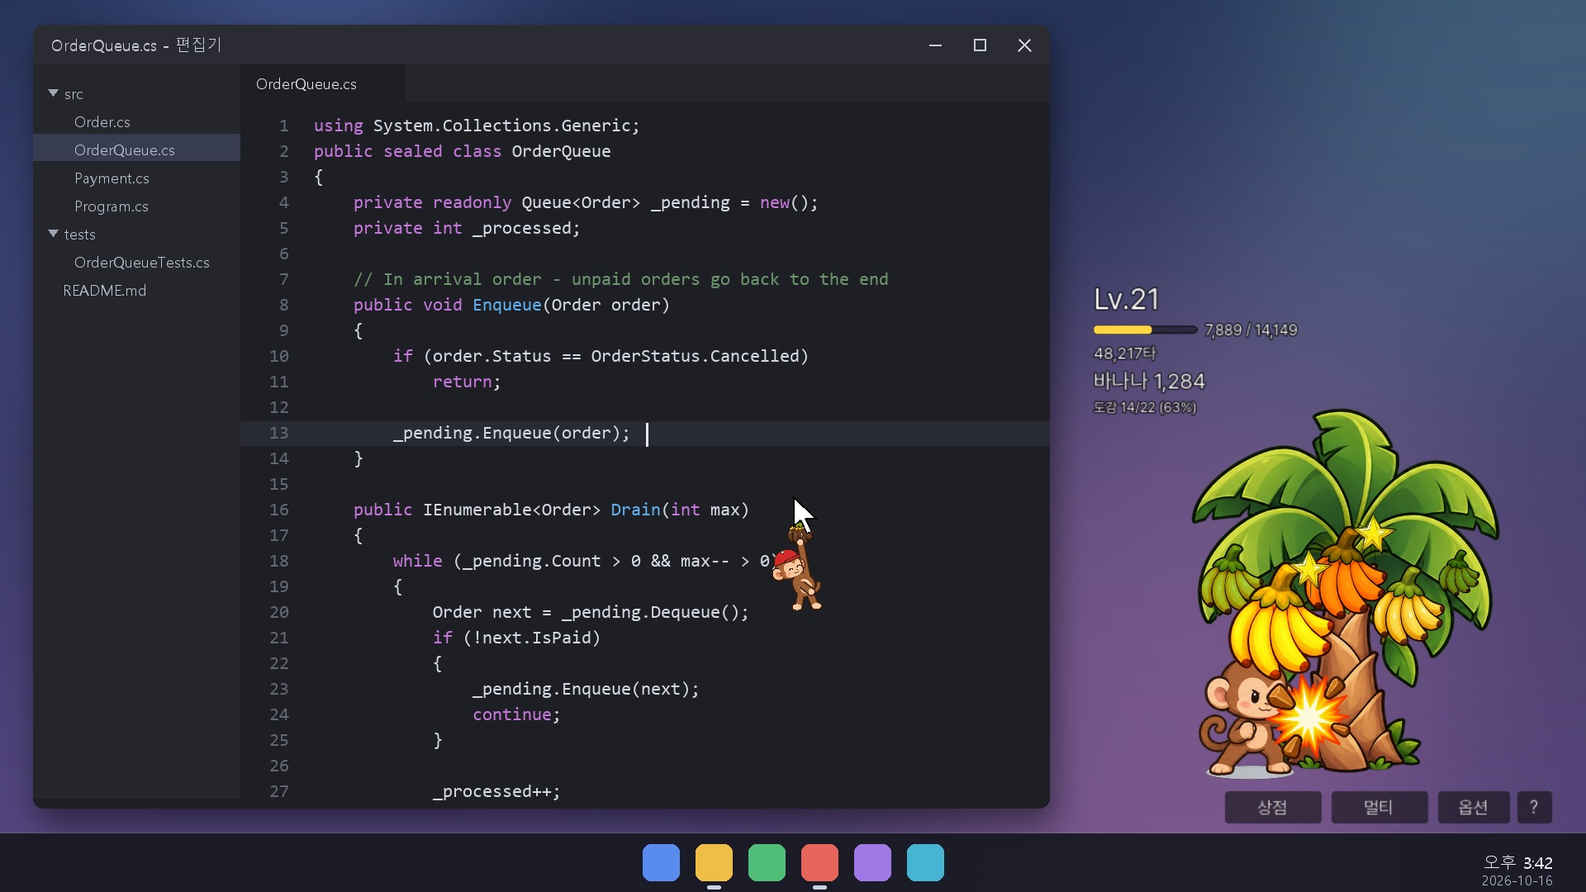
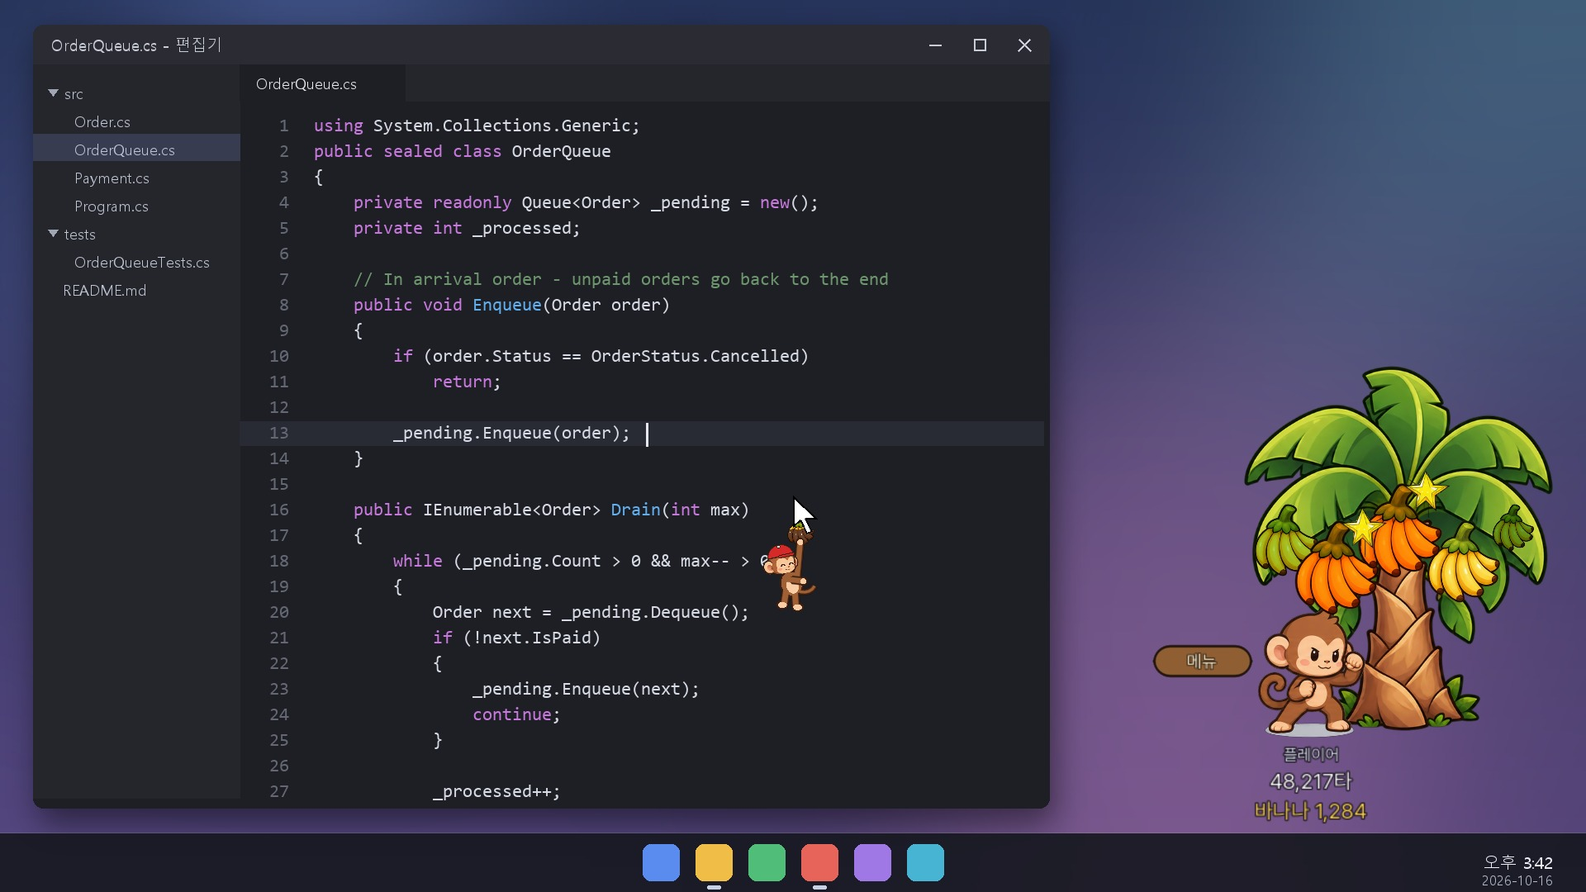
docs(C1): 스토어 소재 새 화면으로 - 스크린샷·설명란 그림 다시 합성, 설명문 고침, LoRA 확인, AI 공개 문구 초안
- make-store-screenshots.py: 메뉴 칸만큼 넓은 원판에 맞춰 뒤 창 폭(work_right)·친구 창 자리·
  설명란/GIF 자르는 자리를 새로 잡고, 편집기 코드는 창 안으로 잘라 붙이고 문서 글은 줄바꿈한다
- 설명문(한/영): 레벨 문장 삭제, 클릭 통과 문장을 보이는 모양 기준으로, 친구 창 캡션에서 레벨 삭제
- StickersRedmond LoRA = CreativeML OpenRAIL-M (B8 §4), 스팀 AI 생성 콘텐츠 공개 문구 초안 (C1 §8)

Changed region(s): [[0.7188, 0.3972, 1.0, 0.9472], [0.6875, 0.3056, 0.8125, 0.4889], [0.4688, 0.6111, 0.5312, 0.7028]]

diff --git a/tools/make-store-screenshots.py b/tools/make-store-screenshots.py
@@ -172,6 +172,9 @@ def code_editor(bg, box):
     d.rectangle((x0 + 250, y0, x0 + 450, y0 + 44), fill=(30, 31, 36, 255))
     d.text((x0 + 270, y0 + 22), "OrderQueue.cs", font=tf, fill=(230, 232, 240, 255), anchor="lm")
 
+    # 코드는 따로 그려 편집기 안쪽으로 잘라 붙인다 - 게임 화면(메뉴 칸)이 넓은 장면은 편집기가 좁아 줄이 창 밖으로 샌다
+    code = Image.new("RGBA", (W, H), (0, 0, 0, 0))
+    d = ImageDraw.Draw(code)
     mf = font(MONO, 22)
     palette = {"k": (198, 120, 221), "t": (214, 218, 228), "f": (97, 175, 239), "c": (110, 150, 110)}
     line, x = 0, 0
@@ -194,14 +197,15 @@ def code_editor(bg, box):
     # 입력 커서
     d.rectangle((x0 + 340 + 402, top + cursor_line * lh - 2, x0 + 340 + 404, top + cursor_line * lh + 26),
                 fill=(230, 230, 240, 255))
+    clip = (x0 + 250, y0 + 44, x1 - 6, y1)
+    bg.alpha_composite(code.crop(clip), clip[:2])
 
 
 DOC = [
     ("h", "3분기 제품 회의록"),
     ("m", "2026년 10월 16일 · 참석 5명"),
     ("s", "1. 지난 분기 돌아보기"),
-    ("p", "신규 가입은 목표를 넘겼지만 첫 주 이탈이 예상보다 컸다. 온보딩 화면을 세 장으로 줄인 뒤"),
-    ("p", "이탈이 조금 줄었고, 다음 분기에도 같은 지표로 본다."),
+    ("p", "신규 가입은 목표를 넘겼지만 첫 주 이탈이 예상보다 컸다. 온보딩 화면을 세 장으로 줄인 뒤 이탈이 조금 줄었고, 다음 분기에도 같은 지표로 본다."),
     ("s", "2. 이번 분기 목표"),
     ("p", "· 첫 주 유지율 5%p 올리기"),
     ("p", "· 설정 화면 정리 — 자주 쓰는 항목을 위로"),
@@ -219,17 +223,38 @@ def document(bg, box):
     px0, px1 = x0 + 90, x1 - 90
     d.rectangle((px0, y0 + 30, px1, y1 - 12), fill=(255, 255, 255, 255))
     y = y0 + 90
+    # 글은 따로 그려 종이 안으로 잘라 붙인다 - 문서 창이 좁은 장면에서 줄이 종이 밖으로 샌다
+    layer = Image.new("RGBA", (W, H), (0, 0, 0, 0))
+    d = ImageDraw.Draw(layer)
     styles = {"h": (UI_BOLD, 38, (30, 32, 40), 64), "m": (UI, 20, (120, 124, 134), 56),
               "s": (UI_BOLD, 26, (40, 44, 56), 48), "p": (UI, 21, (60, 64, 74), 38)}
     for kind, text in DOC:
         path, size, color, step = styles[kind]
         if kind == "s":
             y += 14
-        d.text((px0 + 70, y), text, font=font(path, size), fill=color + (255,))
-        y += step
+        f = font(path, size)
+        for row in wrap(d, text, f, px1 - 70 - (px0 + 70)):
+            d.text((px0 + 70, y), row, font=f, fill=color + (255,))
+            y += step
         if y > y1 - 40:
             break
+    clip = (px0, y0 + 30, px1, y1 - 12)
+    bg.alpha_composite(layer.crop(clip), clip[:2])
     return (px0 + 70, y)
+
+
+def wrap(d, text, f, width):
+    """띄어쓰기 단위로 줄을 나눈다 - 문서 창이 좁은 장면(메뉴 칸이 옆에 뜬 장면)에서 종이 밖으로 새지 않게."""
+    rows, row = [], ""
+    for word in text.split(" "):
+        candidate = f"{row} {word}" if row else word
+        if row and d.textlength(candidate, font=f) > width:
+            rows.append(row)
+            row = word
+        else:
+            row = candidate
+    rows.append(row)
+    return rows
 
 
 # ---------- 커서 ----------
@@ -279,6 +304,19 @@ def place_magnifier(bg, src, mask, at, line_to, src_r=60):
 
 # ---------- 장면 ----------
 
+def game_left(raw, shot, right=40):
+    """메인 창에서 그려진 부분의 왼쪽 끝이 바탕화면 어디에 올지. 메뉴가 열린 장면은 메뉴 칸(창 왼쪽)까지 넓다
+    (2026-09-28) - 뒤에 놓는 편집기·문서 창이 그 앞에서 끝나게 이 값으로 폭을 정한다."""
+    im = raw.img(shot)
+    box = content_box(im)
+    return W - right - box[2] + box[0]
+
+
+def work_right(raw, shot, fallback=1270):
+    """뒤의 작업 창 오른쪽 끝 - 게임 화면과 30px 띄운다. 게임이 좁으면 원래 폭."""
+    return min(fallback, game_left(raw, shot) - 30)
+
+
 def game_at(bg, raw, shot, right=40, bottom_gap=10):
     """메인 창을 오른쪽 아래, 그려진 부분의 바닥이 작업 표시줄 바로 위에 오게 놓는다. 창 좌상단을 돌려준다."""
     im = raw.img(shot)
@@ -315,7 +353,7 @@ def shot_harvest(raw):
 
 def shot_cursor(raw):
     bg = wallpaper(0)
-    code_editor(bg, (40, 30, 1270, H - TASKBAR - 30))
+    code_editor(bg, (40, 30, work_right(raw, "shop_tab0"), H - TASKBAR - 30))
     game_at(bg, raw, "shop_tab0")
     tip = (820, 300)
     cursor(bg, raw, "shop_tab0", tip)
@@ -329,7 +367,7 @@ def shot_cursor(raw):
 
 def shot_collection(raw):
     bg = wallpaper(1)
-    document(bg, (60, 30, 1250, H - TASKBAR - 30))
+    document(bg, (60, 30, work_right(raw, "shop_tab3", 1250), H - TASKBAR - 30))
     game_at(bg, raw, "shop_tab3")
     cursor(bg, raw, "shop_tab3", (1500, 330))
     taskbar(bg)
@@ -338,11 +376,12 @@ def shot_collection(raw):
 
 def shot_lobby(raw):
     bg = wallpaper(0)
-    code_editor(bg, (40, 30, 1100, H - TASKBAR - 30))
+    # 친구 창은 끌어서 아무 데나 둔다 - 로비 창(메뉴 칸) 왼쪽에 세로로 세워 둔 모습
+    fx = game_left(raw, "lobby_window") - raw.img("lobby_window", "Friend0").width - 20
+    code_editor(bg, (40, 30, min(1100, fx - 30), H - TASKBAR - 30))
     gx, gy = game_at(bg, raw, "lobby_window")
-    # 친구 창은 끌어서 아무 데나 둔다 - 로비 창 왼쪽에 세로로 세워 둔 모습
-    friends(bg, raw, "lobby_window", [(1030, 50), (1030, 370), (1030, 690)])
-    cursor(bg, raw, "lobby_window", (1420, 560))
+    friends(bg, raw, "lobby_window", [(fx, 50), (fx, 370), (fx, 690)])
+    cursor(bg, raw, "lobby_window", (1250, 700))   # 로비 창 빈 곳 - [메뉴] 버튼 위에 얹지 않는다
     taskbar(bg)
     return bg
 
@@ -359,7 +398,7 @@ def shot_friends(raw):
 
 def shot_upgrade(raw):
     bg = wallpaper(0)
-    code_editor(bg, (40, 30, 1270, H - TASKBAR - 30))
+    code_editor(bg, (40, 30, work_right(raw, "upgrade"), H - TASKBAR - 30))
     game_at(bg, raw, "upgrade")
     cursor(bg, raw, "upgrade", (1560, 300))
     taskbar(bg)
@@ -384,17 +423,18 @@ DESC_W = 616   # 스팀 설명란 너비. 더 크게 올려도 이 너비로 줄
 
 # 스크린샷에서 잘라 쓸 영역 (x0, y0, x1, y1) - 섹션 제목 아래 한 장씩 (docs/C1-STORE.md §4-2)
 SECTIONS = [
-    ("section_cursor", "03_cursor", (190, 300, 1410, 870)),       # 커서를 꾸미세요 - 확대 원 + 커서
-    ("section_upgrade", "07_upgrade", (1250, 150, 1880, 470)),    # 나무를 키우세요 - 강화 탭
+    # 2026-09-28 메뉴가 게임 화면 옆 칸에 뜨고 HUD 가 원숭이 아래로 옮겨서 다시 잡았다
+    ("section_cursor", "03_cursor", (205, 250, 925, 860)),        # 커서를 꾸미세요 - 확대 원 + 커서
+    ("section_upgrade", "07_upgrade", (955, 172, 1610, 440)),     # 나무를 키우세요 - 강화 탭 + 커서 원숭이
     ("section_friends", "06_friends", (1262, 20, 1920, 330)),     # 친구와 같이 치세요 - 친구 창 3개
-    ("section_harvest", "02_harvest", (1260, 600, 1920, 955)),   # GIF 를 못 쓸 때 "치면 친다" 대신
+    ("section_harvest", "02_harvest", (1390, 430, 1900, 1000)),   # GIF 를 못 쓸 때 "치면 친다" 대신
 ]
 
 # 펀치 GIF: 원판 프레임 순서와 한 장당 시간(ms). 첫 타격 → (중간 8타 생략) → 10번째 타격에 황금 송이 낙하
 GIF_FRAMES = ([("idle", 500)] + [(f"punch_{k}", 70) for k in range(6)] + [("idle", 250)]
               + [(f"harvest_{k}", 80) for k in range(6)] + [("harvest_5", 900)])
-GIF_CROP = (40, 150, 530, 634)   # 원판(배율 1.5) 안에서 나무·원숭이만 - 버튼(635~)은 뺀다
-GIF_HUD = (0, 0, 150, 185)       # 나무 꼭대기 옆에 걸치는 HUD 마지막 줄(도감) - 지운다
+GIF_CROP = (40, 150, 530, 626)   # 원판(배율 1.5) 안에서 나무·원숭이만 - 원숭이 아래 HUD(630~)는 뺀다
+GIF_HUD = (0, 495, 142, 556)     # 원숭이 왼쪽 [메뉴] 버튼 - 지운다 (2026-09-28 부터 이 자리)
 
 
 def resize_w(im, width):

diff --git a/docs/C1-STORE.md b/docs/C1-STORE.md
@@ -8,19 +8,21 @@
 
 ---
 
-## 0. 상태 (2026-09-26)
+## 0. 상태 (2026-09-28)
 
 | 항목 | 상태 |
 |---|---|
-| 캡슐 아트 10종 | ☑ **초안** — `tools/make-store-capsules.py` → `assets/_store/capsules/` (§2) |
-| 스크린샷 5장 | ☑ **초안 7장** — `--store-shot` 원판 + `tools/make-store-screenshots.py` → `assets/_store/screenshots/` (§3) |
-| 짧은 설명 · 긴 설명 (한/영) | ☑ 초안 (§4) |
+| 캡슐 아트 10종 | ☑ **초안** — `tools/make-store-capsules.py` → `assets/_store/capsules/` (§2). 게임 화면이 안 들어가서 9/27·9/28 UI 변경과 무관 |
+| 스크린샷 5장 | ☑ **다시 뽑음 (9/28)** — 메뉴가 게임 옆 칸에 뜨고 HUD 가 원숭이 아래로 간 화면. 7장 중 5장 고르기 남음 (§3) |
+| 설명란 그림 | ☑ 다시 뽑음 (9/28) — 자르는 자리를 새 화면에 맞춤 (§4-4) |
+| 짧은 설명 · 긴 설명 (한/영) | ☑ 초안 — 9/28 "누적 타수 = 레벨" 문장 뺌, "클릭 통과" 문장을 보이는 모양 기준으로 (§4) |
 | 태그 | ☑ 제안 (§5) |
 | 시스템 요구사항 | ☑ STEAM-CONFIG §2-4 그대로 |
+| AI 콘텐츠 공개 문구 | ☑ **초안 (§8)** — 스팀 콘텐츠 설문의 "AI 생성 콘텐츠" 칸 |
+| LoRA 라이선스 (B8 §4) | ☑ **StickersRedmond = CreativeML OpenRAIL-M** (Hugging Face 모델 카드, 9/28 확인) — 결과물 상업 이용 가능, 금지 용도 조항만 따른다. pixel-art-xl 은 안 쓴다 |
 | 가격 | ☐ **정해야 한다** (§6) |
-| 트레일러 30초 | ☐ 공개 뒤에 해도 된다 |
-| LoRA 라이선스 (B8 §6) | ☐ **공개 전에 닫아야 한다** — 캡슐에 커서 장식(생성 그림)이 들어간다 |
 | 문의 이메일 | ☐ C2 §4-2 와 같은 값 |
+| 트레일러 30초 | ☐ 공개 뒤에 해도 된다 |
 
 ---
 
@@ -90,7 +92,7 @@ C:\Tools\Godot_v4.7.2-stable_mono_win64\Godot_v4.7.2-stable_mono_win64_console.e
 
 ### 3-1. 원판 — `--store-shot` (`platform/OverlayShell.StoreShots.cs`)
 
-목 상태를 매번 같게 세운다: 잔액 1,284 · 누적 48,213타(Lv.21) · 강화(황금 2 · 가지 2 · 빨리 익기 1) · 송이
+목 상태를 매번 같게 세운다: 잔액 1,284 · 누적 48,213타 · 강화(황금 2 · 가지 2 · 빨리 익기 1) · 송이
 5개(황금 익음 / 보통 익음 / 황금 익음 / 자라는 중 / 막 달림) · 장식 11/16 보유, 장착 빨간 모자 원숭이 + 노란
 반짝임 + 금빛 고리. 그리고 장면마다 **보이는 창 전부**(메인·커서 장식·친구 창)를 저장한다.
 
@@ -98,15 +100,21 @@ C:\Tools\Godot_v4.7.2-stable_mono_win64\Godot_v4.7.2-stable_mono_win64_console.e
 |---|---|
 | `idle`, `punch_0~5` | 가만히 / 익은 송이를 치는 순간 연속 |
 | `harvest_0~5` | 10번째 타격 — 황금 송이가 떨어지는 연속 |
-| `shop_tab0~4` | 상점 탭 5개 (원숭이 · 바나나 · 장식 · 강화 · 도감) |
+| `shop_tab0~3` | 상점 탭 4개 (원숭이 · 바나나 · 장식 · 도감) |
+| `upgrade` | 메뉴의 강화 탭 (9/27 부터 상점과 따로) |
+| `settings` | 메뉴의 설정 탭 — 합성은 안 한다. 확인용 (9/28) |
 | `lobby_0~3`, `lobby_window` | 가짜 친구 3명(바나나킹 · 타자왕 · 고릴라)이 치고 따는 로비 / 로비 창 |
-| `onboarding_0~2` | 처음 안내(B15) 세 장 — 합성은 안 한다. 안내 화면 확인용 |
+| `onboarding_0` | 처음 안내(B15) 한 장 (9/28 부터) — 합성은 안 한다. 안내 화면 확인용 |
+
+**메뉴가 열린 원판은 창이 넓다** (2026-09-28). 메뉴가 게임 화면 왼쪽 옆 420px 칸에 뜨므로(IShell.SetSidePanel) 원판도
+그만큼 넓다. 메뉴 칸 글자는 배율을 안 받는다 — 게임 그대로다. 합성은 뒤의 편집기·문서 창을 그 앞에서 끝낸다(`work_right`).
 
 - **창 배율 1.5** 로 찍는다(옵션 "크기" 범위 안). 1.0 으로는 1920x1080 에서 원숭이가 썸네일의 점이 된다.
   바탕화면도 150% 배율 모니터처럼 그렸다(작업 표시줄 72px, 커서 46px)
 - 입력 헬퍼를 띄우지 않고 타건을 코드로 넣는다(`HelperInputSource.DebugInject`) — 찍는 동안 실제 키보드가 섞이지 않는다
 - 계측 HUD 를 끄고 저전력 모드를 끈다(바뀐 게 없으면 프레임이 안 와서 캡처가 멈춘다)
 - **Esc 를 누르면 안 된다** — 셸 디버그 키에서 종료다. 상점·로비는 같은 키(B·M)를 다시 눌러 닫는다
+- **찍는 동안 마우스를 게임 창 밖에 둔다** — 송이 위에 있으면 말풍선이 같이 찍힌다
 - 게임 레이어의 타입을 모르는 채로 돈다: 상점 탭은 `TabContainer` 를 찾아 넘기고, 상점·로비는 디버그 키를 흘린다
 
 ### 3-2. 합성 결과 (`assets/_store/screenshots/`) — 7장 중 5장을 고른다
@@ -115,8 +123,8 @@ C:\Tools\Godot_v4.7.2-stable_mono_win64\Godot_v4.7.2-stable_mono_win64_console.e
 |---|---|---|
 | `01_work` | 코드 편집기 옆에서 원숭이가 익은 송이를 친다, 꾸민 커서 | **1번** — 일하면서 켜 두는 게임 |
 | `02_harvest` | 문서 작업 옆, 황금 송이가 떨어진다 | **2번** |
-| `03_cursor` | 상점(원숭이 탭) + 커서 원숭이 확대 원 | **3번** — 커서 꾸미기 |
-| `04_collection` | 도감 11/16 | 4번 후보 |
+| `03_cursor` | 상점(원숭이 탭, 게임 옆 칸) + 커서 원숭이 확대 원 | **3번** — 커서 꾸미기 |
+| `04_collection` | 도감 14/22 | 4번 후보 |
 | `05_lobby` | 로비 창(랭킹·친구 목록) + 친구 창 3개 | **5번** |
 | `06_friends` | 친구 창 3개를 화면 위쪽에 둔 모습 + 내 나무 | 4번 후보 |
 | `07_upgrade` | 강화 탭 | 여분 |
@@ -125,7 +133,7 @@ C:\Tools\Godot_v4.7.2-stable_mono_win64\Godot_v4.7.2-stable_mono_win64_console.e
 
 - 화면 글자는 한국어다. 영어 스토어에는 같은 그림을 쓰거나, 스팀의 언어별 스크린샷으로 나중에 나눈다
 - `03_cursor` 의 확대 원만 실제 화면이 아니다(같은 화면을 3.4배로 키운 것). 1:1 로는 장식이 작아서다
-- 상점 창은 반투명이라 뒤의 나무가 비친다 — 게임 그대로다
+- 메뉴(상점·강화·로비)는 게임 화면 옆 칸에 뜬다 — 9/27 까지의 원판은 창 전체를 덮은 반투명 상점이었다
 - 편집기·문서 창은 특정 제품을 흉내 내지 않은 일반 창이다(로고 없음)
 - 촬영 상태를 바꾸려면 `PrepareStoreShot`, 장면을 바꾸려면 `RunStoreShot`, 배치는 합성 스크립트의 `shot_*`
 - **움짤(GIF)** — 타이핑 → 펀치 → 바나나 → 커서. 긴 설명에 넣을 수 있으면 넣는다. 트레일러와 같이 만든다
@@ -180,12 +188,12 @@ C:\Tools\Godot_v4.7.2-stable_mono_win64\Godot_v4.7.2-stable_mono_win64_console.e
 데나 두세요. 누가 제일 많이 쳤는지 로비 랭킹으로 겨룹니다.
 
 **방해하지 않습니다**
-- 항상 위에 떠 있지만 클릭은 뒤로 통과합니다
+- 항상 위에 떠 있지만 원숭이·나무 말고 빈 곳 클릭은 뒤 창으로 그대로 갑니다
 - 전체화면 게임·영상 중에는 숨길 수 있습니다 (옵션)
 - 트레이로 숨기기, Windows 시작 시 실행, 크기·투명도 조절
 - 가볍게 돌도록 만들었습니다
 
-**누적 타수 = 레벨.** 첫 천 타부터 백만 펀치까지, 도전과제 10개.
+**첫 천 타부터 백만 펀치까지**, 도전과제 10개.
 
 ### 4-3. 긴 설명 — English
 
@@ -219,12 +227,12 @@ Gather in a lobby with Steam friends and their monkeys and trees appear on your 
 Drag them anywhere. See who punched the most on the lobby leaderboard.
 
 **Stays out of your way**
-- Always on top, but clicks pass right through
+- Always on top, but clicks anywhere except the monkey and tree go straight to the window behind
 - Can hide while fullscreen games or videos are running (option)
 - Hide to tray, launch with Windows, adjust size and opacity
 - Built to run light
 
-**Your total keystrokes are your level.** From your first thousand to a million punches — 10 achievements.
+**From your first thousand to a million punches** — 10 achievements.
 
 ### 4-4. 설명란 이미지 (`assets/_store/description/`)
 
@@ -237,7 +245,7 @@ Drag them anywhere. See who punched the most on the lobby leaderboard.
 | (GIF 를 못 쓰면) | `section_harvest.png` | 수확 순간 한 장 |
 | 커서에 원숭이가 매달립니다 / A monkey hangs from your cursor | `section_cursor.png` | 커서 원숭이 확대 원 (GIF 로 바꾸면 더 좋다 - 흔들림) |
 | 나무를 키우세요 / Grow your tree | `section_upgrade.png` | 강화 탭 |
-| 친구와 같이 치세요 / Punch together | `section_friends.png` | 친구 창 3개 (이름 · 레벨 · 로비 타수 · 도감) |
+| 친구와 같이 치세요 / Punch together | `section_friends.png` | 친구 창 3개 (이름 · 로비 타수 · 도감 — 레벨은 9/27 에 없앴다) |
 
 개인정보 문구와 "방해하지 않습니다" 섹션에는 그림을 넣지 않는다 — 앞은 읽혀야 하는 글이고 뒤는 글머리표로 충분하다.
 
@@ -252,7 +260,8 @@ Drag them anywhere. See who punched the most on the lobby leaderboard.
 | 황금 ×5, 세 축 이름 | B13-UPGRADES — **B14 밸런스에서 이름·배율이 바뀌면 같이 고친다** |
 | 친구 창 끌어서 두기, 로비 랭킹 | B10 · B12. **2계정 전체 시나리오 확인 전** — 공개 전에 한 번은 돌려 볼 것 |
 | 전체화면 숨김 "옵션" | `63a116b` 기본값 끔 — 그래서 "숨길 수 있습니다" |
-| 클릭이 뒤로 통과 | A2 · A3 |
+| 빈 곳 클릭이 뒤로 통과 | A2 · A3, 9/28 클릭 영역 = 보이는 모양 (`IInteractiveArea.GetClickableRects`). **바탕화면에서 손으로 한 번 확인할 것** |
+| 레벨 문장이 없는 이유 | 9/27 레벨을 없앴다 (`KeystrokeLevel.cs` 삭제) — 누적 타수와 도전과제만 남았다 |
 | 도전과제 10개 | A15 |
 | "가볍게" — 수치를 안 쓴 이유 | A7 실측 239MB 는 있지만 친구 창 3개는 추정치(DEVLOG 9/24 열셋째). 숫자는 확정 뒤에 |
 | "타건 카운트 끄기" 가 없는 이유 | 옵션을 없앴다 (2026-09-26, C2 상태표). 세기를 원하지 않으면 게임을 끈다 |
@@ -289,8 +298,43 @@ Drag them anywhere. See who punched the most on the lobby leaderboard.
 
 1. ☐ 캡슐 초안 확인 → 고칠 것 반영 (§2)
 2. ☐ 가격 결정 (§6), 문의 이메일 결정 (C2 §4-2)
-3. ☐ LoRA 라이선스 확인 (B8 §6-1) — 캡슐·게임에 생성 그림이 들어간다
-4. ☑ 스크린샷 초안 (§3) — 7장 중 5장 고르기
-5. ☐ 파트너 사이트에 설명문·태그·시스템 요구사항·캡슐·스크린샷 입력, 개인정보 문구 링크
+3. ☑ LoRA 라이선스 확인 (9/28, §0) — AI 공개 문구 초안은 §8
+4. ☑ 스크린샷 다시 뽑음 (9/28, §3) — 7장 중 5장 고르기
+5. ☐ 파트너 사이트에 설명문·태그·시스템 요구사항·캡슐·스크린샷·설명란 그림 입력, 개인정보 문구 링크, 콘텐츠 설문(AI 공개 §8)
 6. ☐ W-8BEN · 은행 계좌 (기획서 §11) — 스토어 공개 심사와 별개지만 출시 전에 필요하다
 7. ☐ 스토어 페이지 검수 제출 → "출시 예정" 공개. **밸브 검수에 며칠 걸리므로 제출은 10/2 보다 앞서야 한다**
+
+---
+
+## 8. AI 생성 콘텐츠 공개 (스팀 콘텐츠 설문) — 초안 (2026-09-28)
+
+스팀은 파트너 사이트의 **콘텐츠 설문**에서 AI 사용을 묻고, 적은 설명을 스토어 페이지에 그대로 보여 준다. 두 갈래로 묻는다 —
+**미리 생성한 콘텐츠**(개발 중에 만든 그림·소리 등)와 **실시간 생성 콘텐츠**(게임이 돌면서 AI 로 만드는 것).
+우리는 앞의 것만 해당한다. 게임은 실행 중에 AI 를 부르지 않는다.
+
+근거 (B8 §2·§4, B17):
+
+| 무엇 | 어떻게 만들었나 |
+|---|---|
+| 원숭이·나무·바나나·잎 (`assets/_source/` 시트) | AI 이미지 생성(GPT)으로 받은 시트를 스크립트로 잘라 씀 |
+| 커서 장식 일부 | SDXL + StickersRedmond LoRA (ComfyUI), 배경 제거·후처리 스크립트 |
+| 커서 원숭이 스킨 · 바나나 변형 | 위 그림에서 스크립트로 색·부품을 바꿔 만듦 (`make-monkey-parts.py`, `make-banana-variants.py`) |
+| 캡슐 아트 · 스크린샷 · 도전과제 아이콘 | 위 게임 그림을 스크립트로 배치·합성. 배경·로고는 코드로 그림 |
+| 코드 · 글 · UI | 사람이 씀 (개발 도구로 AI 코딩 도우미를 썼다 — 스팀 설문은 게임에 들어가는 콘텐츠를 묻는다) |
+
+**미리 생성한 콘텐츠 — 한국어**
+
+> 캐릭터(원숭이), 바나나 나무, 바나나, 커서 장식의 그림은 AI 이미지 생성 도구로 만든 뒤 개발자가 고르고 잘라 다듬었습니다.
+> 스토어 이미지는 이 게임 그림을 배치해 만들었습니다. 게임은 실행 중에 AI 로 콘텐츠를 만들지 않습니다.
+
+**Pre-generated — English**
+
+> The artwork for the monkey, banana tree, bananas and cursor decorations was created with AI image generation tools,
+> then selected, cut out and edited by the developers. Store images are composed from this in-game artwork.
+> The game does not generate any content with AI while it runs.
+
+**실시간 생성 콘텐츠** — 해당 없음 (체크하지 않는다).
+
+- 쓰는 모델의 상업 이용: SDXL base 1.0 (CreativeML OpenRAIL++-M) · StickersRedmond LoRA (CreativeML OpenRAIL-M) · 배경 제거
+  INSPYRENET (MIT). RMBG-2.0(CC BY-NC)은 쓰지 않는다 (B8 §4)
+- 엔티티 시트를 받은 GPT 이미지 생성의 약관이 결과물 상업 이용을 허용하는지 **한 번 더 확인할 것** (B8 §4 는 "가능" 으로 적어 둠)

diff --git a/docs/B8-ASSET-PIPELINE.md b/docs/B8-ASSET-PIPELINE.md
@@ -143,8 +143,8 @@ overhead, legs hanging loose downward, dangling in mid air" 처럼 몸이 어떤
 | SDXL base 1.0 | CreativeML OpenRAIL++-M | 가능 |
 | INSPYRENET (배경 제거) | MIT | 가능 |
 | **RMBG-2.0** | CC BY-NC | **불가 — 쓰지 않는다** |
-| StickersRedmond LoRA | 확인 필요 | ☐ |
-| pixel-art-xl LoRA (현재 미사용) | 확인 필요 | ☐ |
+| StickersRedmond LoRA | CreativeML OpenRAIL-M (Hugging Face `artificialguybr/StickersRedmond` 모델 카드, 2026-09-28 확인) | 가능 — 결과물 상업 이용 가능, 라이선스의 금지 용도 조항만 따른다 |
+| pixel-art-xl LoRA | 쓰지 않는다 (`gen.py` 에 설정만 남음) | 해당 없음 |
 | Pretendard (한글 폰트) | SIL OFL 1.1 | 가능 (`assets/fonts/Pretendard-OFL.txt`) |
 | 엔티티 시트 (`assets/_source/`) | 자체 생성물 (GPT) | 가능 |
 
@@ -181,7 +181,7 @@ overhead, legs hanging loose downward, dangling in mid air" 처럼 몸이 어떤
 
 ## 6. 남은 것
 
-1. **LoRA 라이선스 확인** (§4 의 ☐ 둘). 스토어 페이지 공개 전에 닫아야 한다.
+1. ~~LoRA 라이선스 확인~~ — 2026-09-28 닫음 (§4). 스팀 AI 공개 문구는 C1 §8.
 2. **엔티티 시트의 바닥 그림자.** 받은 `Monkey.png` 각 프레임 밑에 회색 타원이
    들어 있다. §3 이 말한 바로 그 문제인데 **생성이 아니라 받아온 것이라 프롬프트로
    못 막는다.** 지금은 그대로 두고 있다 — 지울지 말지는 눈으로 보고 정할 일이다.
